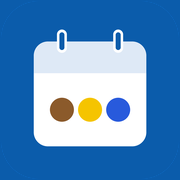
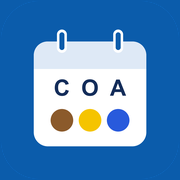
Icône : lettres C O A au-dessus des pastilles

Changed region(s): [[0.1944, 0.3611, 0.8056, 0.75], [0.7778, 0.25, 0.8056, 0.2778], [0.1944, 0.25, 0.2222, 0.2778]]

diff --git a/index.html b/index.html
@@ -5,9 +5,9 @@
 <meta name="viewport" content="width=device-width, initial-scale=1, viewport-fit=cover">
 <meta name="theme-color" content="#0b5cab">
 <title>Mes Horaires</title>
-<link rel="manifest" href="manifest.json">
-<link rel="icon" href="icon-192.png" type="image/png">
-<link rel="apple-touch-icon" href="apple-touch-icon.png">
+<link rel="manifest" href="manifest.json?v=2">
+<link rel="icon" href="icon-192.png?v=2" type="image/png">
+<link rel="apple-touch-icon" href="apple-touch-icon.png?v=2">
 <meta name="apple-mobile-web-app-title" content="Horaires">
 <meta name="mobile-web-app-capable" content="yes">
 <meta name="apple-mobile-web-app-capable" content="yes">
